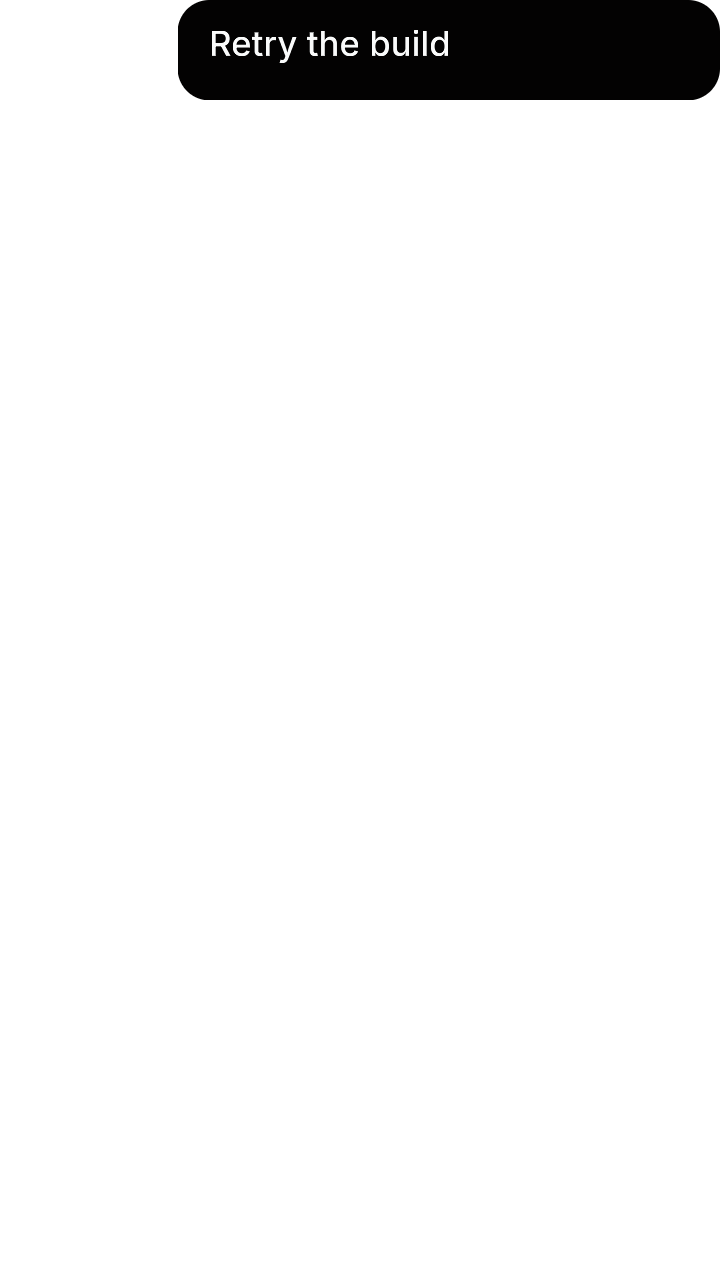
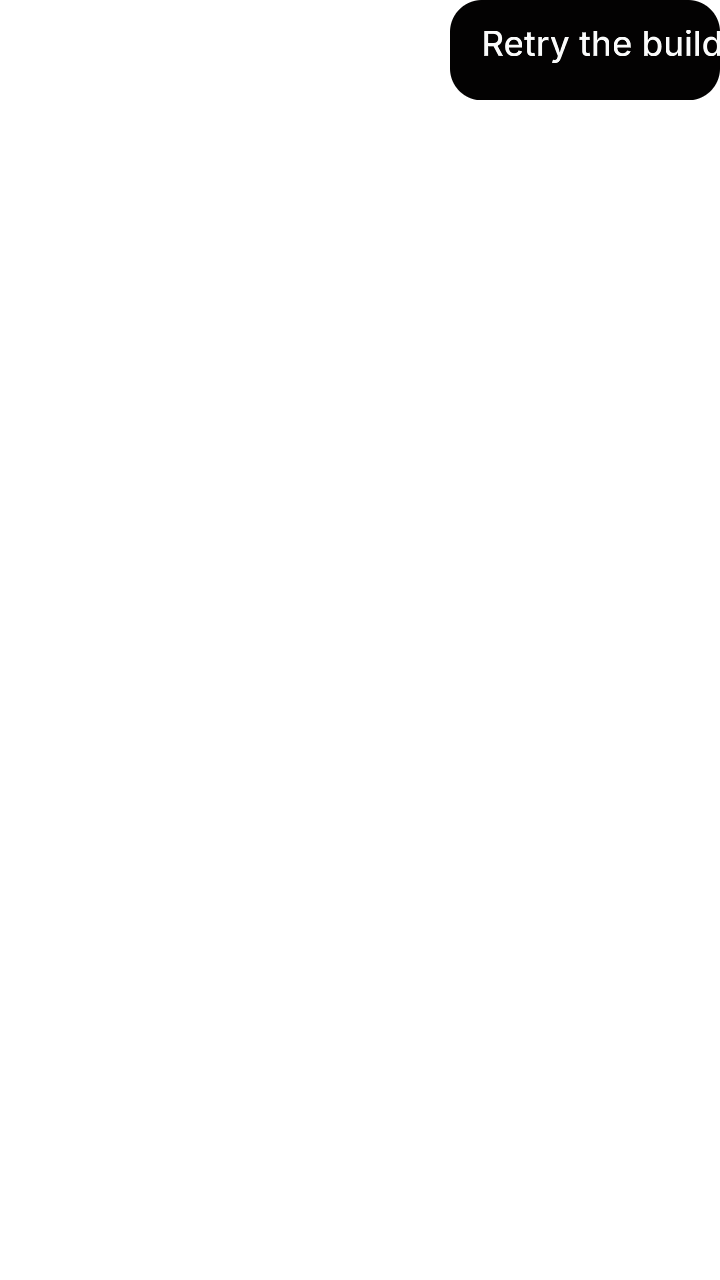
design(stage-b): polish the 5 #16d component residuals
Renderer (tools/renderer-16d.patch):
- flow/markdown: clamp the WRAPPED-line advance to 1.4x the font size. The flow
  node's line_height was the atlas's paragraph pitch (~2x the font), so every
  wrapped line carried a blank-line-sized gap; paragraph_spacing still supplies
  the deliberate inter-paragraph blank. Changes only scene 03/09 (the flow
  regions) and matches their atlases.
- a fillw Stack leaf is wrapped like a fill text leaf, so the tool-cell console
  gets a finite width and fills the card instead of keeping its 351px artboard.

Fixtures (tools/render_variants.py):
- composer long: fith cleared so the card honours its measured height (the pill's
  bottom border was clipped by the Fit-height card edge).
- tool-cell console fillw; compose glyph rec-move to x=332,y=24.5 (centred).
- user-bubble: drop fitw -> keep the measured width, so the atlas's horizontal
  padding survives on both sides.

Verified: full re-render -> 38 variant PNGs, 0 blank; 19 reviews; replayed the
4-patch chain on a clean clone -> design.rs byte-identical; approved scenes
changed ONLY in 03/09's flow regions (the intended wrapped-line fix).

Changed region(s): [[0.2444, 0.0, 0.6417, 0.0938], [0.6722, 0.0, 1.0, 0.0625]]

diff --git a/design/stage-b/conversation/tools/render_variants.py b/design/stage-b/conversation/tools/render_variants.py
@@ -74,7 +74,10 @@ RESPONSIVE = {
     # bubble take its content width, `alignx: 1` wraps it in a Fill/align-right
     # box (design.rs); the labels keep their measured widths so they define the
     # hug instead of stretching it.
-    "user-bubble": {"user_bubble": {"fitw": 1, "alignx": 1},
+    # Card #16d: keep the MEASURED bubble width (it already includes the atlas's
+    # horizontal padding on both sides); `fitw` hugged to the widest label, which
+    # left the text flush against the bubble's right edge.
+    "user-bubble": {"user_bubble": {"alignx": 1},
                     "t01": {}, "t02": {}},
     "working-row": {"working_row": {"fillw": 1, "fith": 1}, "t03": {"fillw": 1}},
     "assistant-prose": {"answer_prose": {"fillw": 1, "fith": 1},
@@ -94,6 +97,7 @@ RESPONSIVE = {
 
 # The expanded tool-cell console, from scene 04's third card (`tool_3_output`).
 OUTPUT_BOX = {"t": "stack", "id": "tool_1_output", "x": 10, "y": 84, "w": 351, "h": 116,
+              "fillw": 1,
               "variant": "surface", "bg": MONOBG, "radius": 8, "c": [
                   {"t": "text", "id": "o1", "x": 18, "y": 10, "w": 316, "h": 17, "size": 13.4,
                    "weight": 400, "font_src": MONO, "line_height": 16.6, "color": 4281216815,
@@ -116,7 +120,7 @@ FAILED_X = {"t": "text", "id": "status_x", "x": 336, "y": 25, "w": 20, "h": 23, 
 # Card #16c: the compose (pencil) glyph lives at the new-chat row's right edge in
 # scene 01, as a SIBLING of `new_chat` — so extraction (which takes only the root
 # subtree) dropped it. Re-attach it, parent-relative (scene x347-16=331, y130-120=10).
-COMPOSE_ICON = {"t": "svg", "id": "icon_compose", "x": 347, "y": 10, "w": 24, "h": 28,
+COMPOSE_ICON = {"t": "svg", "id": "icon_compose", "x": 332, "y": 24.5, "w": 24, "h": 28,
                 "alignx": 1, "src": ""}
 # Card #16c: a command cell ("Ran cargo test") carries the terminal `>_` glyph, not
 # the file glyph (which is for Read/Edit). Same measured box as `icon_file`.
@@ -152,7 +156,8 @@ VARIANTS = {
         # label's bottom edge and cut the lower padding entirely. Labels keep the
         # atlas line pitch (their measured y, ~37.5 apart).
         "short": {"text": {"t01": "Retry the build"}, "drop": ["t02"],
-                  "flags": {"user_bubble": {"h": 50.2}}},
+                  # 15.72 padding + ~103 text + 15.72 padding, rounded to the atlas pitch
+                  "flags": {"user_bubble": {"w": 135.0, "h": 50.2}}},
         "long": {"text": {"t01": "Fix the steer queue so queued",
                           "t02": "steers survive a reconnect"},
                  "flags": {"user_bubble": {"h": 85.09}}},
@@ -181,7 +186,7 @@ VARIANTS = {
         # Card #16c: a command cell uses the terminal glyph, so swap the file icon
         # out for `icon_term` (the atlas's ">_ " is that icon, not OCR text).
         "long": {"text": {"t01": "Ran cargo test -p octos-cli", "t02": "\u2022 12 passed"},
-                 "flags": {"tool_1": {"h": 210}}, "drop": ["icon_file"],
+                 "flags": {"tool_1": {"h": 210, "fith": 0}}, "drop": ["icon_file"],
                  "insert": [("tool_1", TERM_ICON), ("tool_1", OUTPUT_BOX)]},
         # Card #16c: this is also a COMMAND cell, so it takes the terminal glyph.
         "failed": {"text": {"t01": "Ran cargo test -p octos-cli",
@@ -197,7 +202,7 @@ VARIANTS = {
         "long": {"text": {"composer_idle_input": "also add a test for reconnect"},
                  # Every child (grandchildren too — a shifted parent does NOT
                  # move an `abs_pos` child) moves down by the chip's 58px.
-                 "flags": {"composer_idle": {"h": 250},
+                 "flags": {"composer_idle": {"h": 250, "fith": 0},
                            "composer_idle_input": {"y": 68.556},
                            "icon_plus1": {"y": 186.778}, "pill1": {"y": 179.0},
                            "pill1_t": {"y": 193.5},
